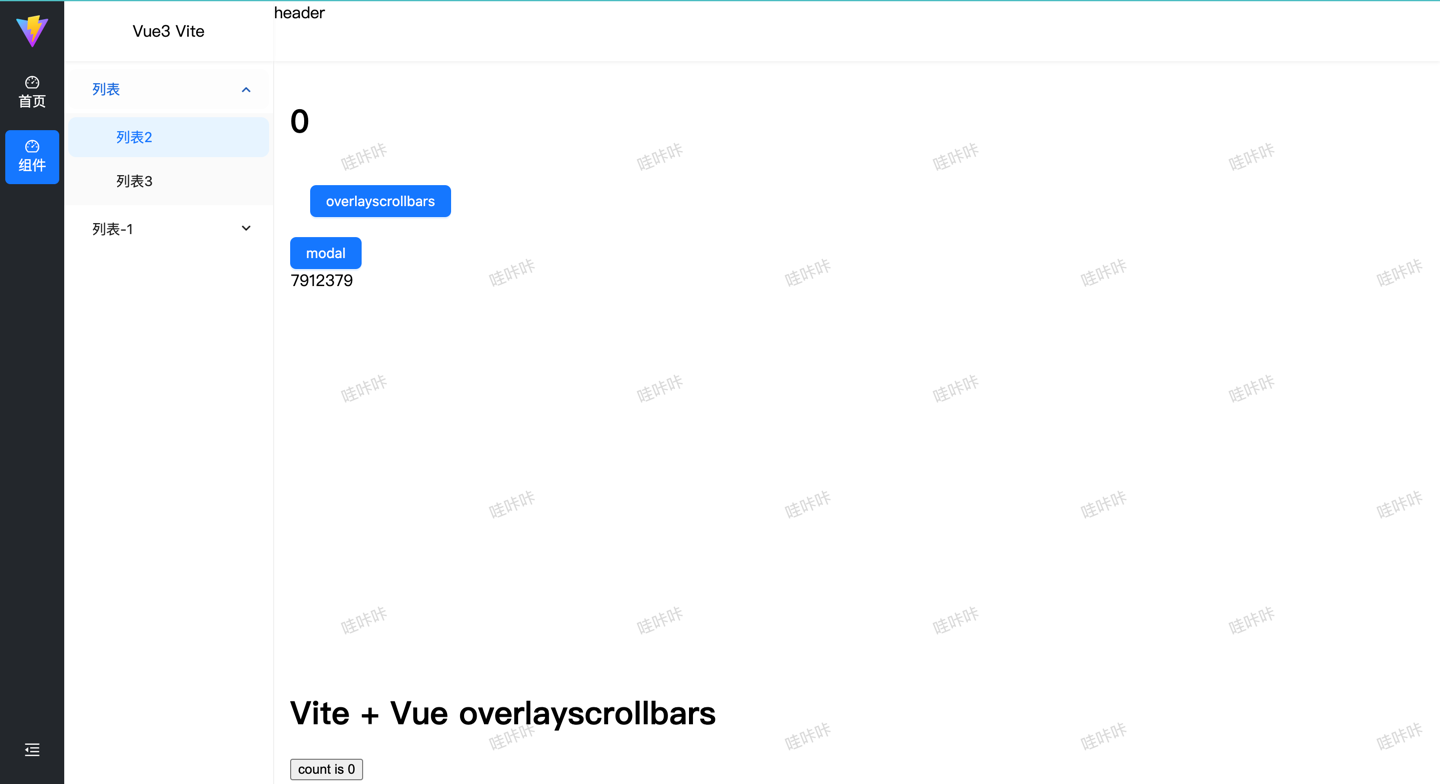
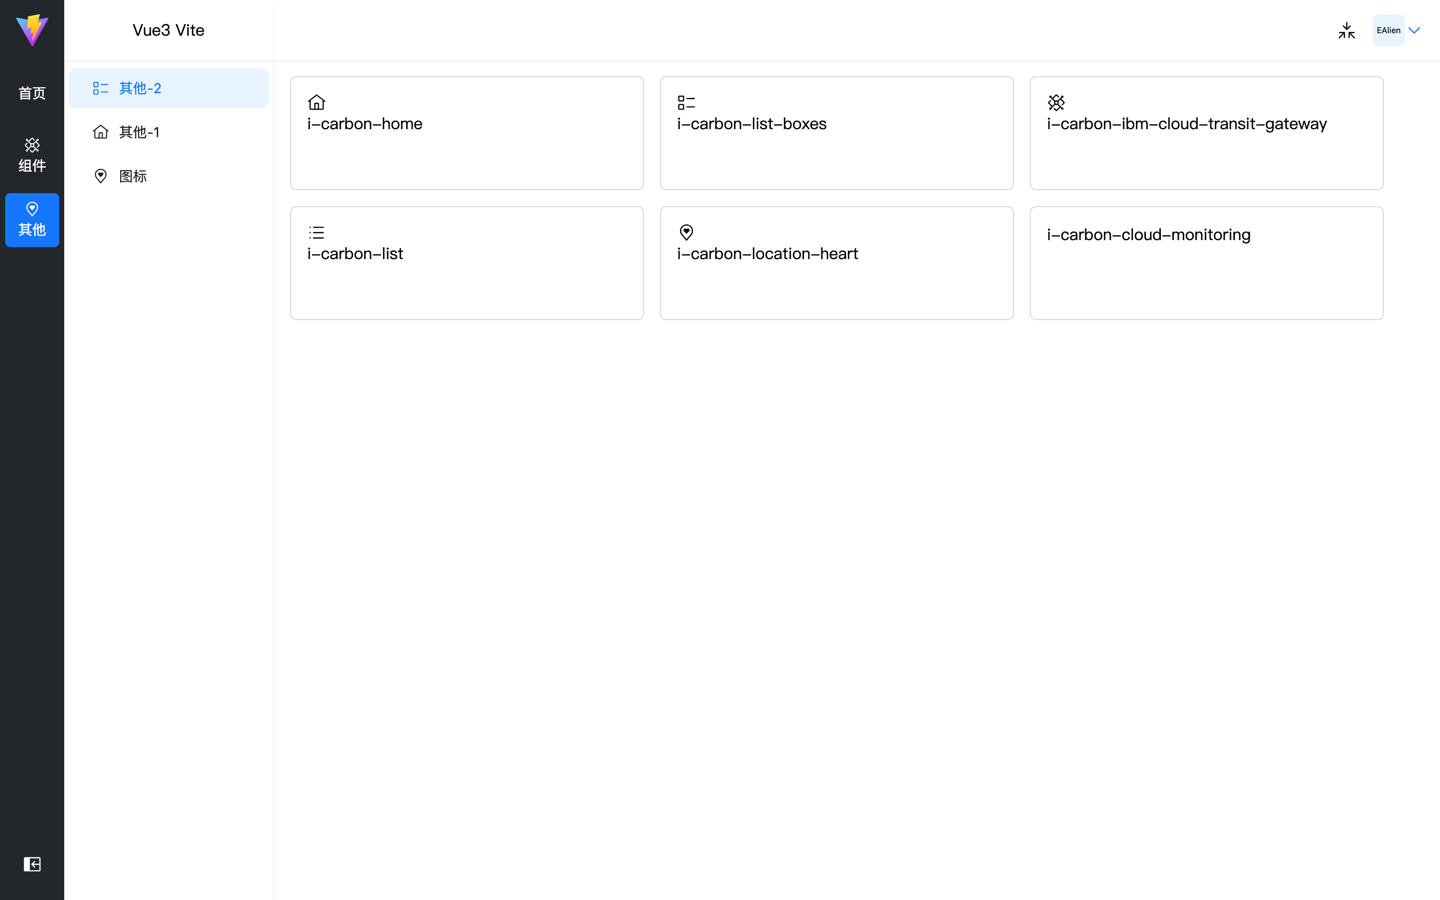
feat: header

diff --git a/src/layout/header/components/Avatar.vue b/src/layout/header/components/Avatar.vue
@@ -1,0 +1,30 @@
+<template>
+  <div class="mr16px cursor-pointer">
+    <a-dropdown>
+      <a
+        class="ant-dropdown-link flex items-center"
+        @click.prevent
+      >
+        <a-avatar
+          shape="square"
+          :style="{ backgroundColor: '#e6f4ff', color: 'black' }"
+        >
+          EAlien
+        </a-avatar>
+        <i class="i-carbon-chevron-down down_icon" />
+      </a>
+      <template #overlay>
+        <a-menu>
+          <a-menu-item>退出登录</a-menu-item>
+        </a-menu>
+      </template>
+    </a-dropdown>
+  </div>
+</template>
+
+<style scoped lang="less">
+  .down_icon {
+    display: block;
+    color: @primary-color;
+  }
+</style>

diff --git a/src/components/FullScreen/index.vue b/src/components/FullScreen/index.vue
@@ -6,15 +6,18 @@
 
 <template>
   <div class="cursor-pointer">
-    <a-tooltip v-if="!isFullscreen" title="全屏" color="#1677ff">
-      <i
+    <a-tooltip color="white">
+      <template v-slot:title>
+        <span style="color: black">{{ isFullscreen ? '退出全屏' : '全屏' }}</span>
+      </template>
 
+      <i
+        v-if="!isFullscreen"
         class="i-carbon-intent-request-scale-out block"
         @click="enter"
       />
-    </a-tooltip>
-    <a-tooltip v-else title="退出全屏" color="#1677ff">
       <i
+        v-else
         class="i-carbon-intent-request-scale-in block"
         @click="exit"
       />

diff --git a/src/layout/header/index.vue b/src/layout/header/index.vue
@@ -1,13 +1,12 @@
 <script setup>
   import FullScreen from '@/components/FullScreen/index.vue'
+  import Avatar from './components/Avatar.vue'
 </script>
 
 <template>
   <div class="content_header">
     <FullScreen />
-    <div>
-      header avatar
-    </div>
+    <Avatar />
   </div>
 </template>
 

diff --git a/README.md b/README.md
@@ -22,5 +22,4 @@
 
 
 ### import.meta.env 访问环境变量，自定义 VITE_ 开头
-
 ![img.png](public/img.png)
